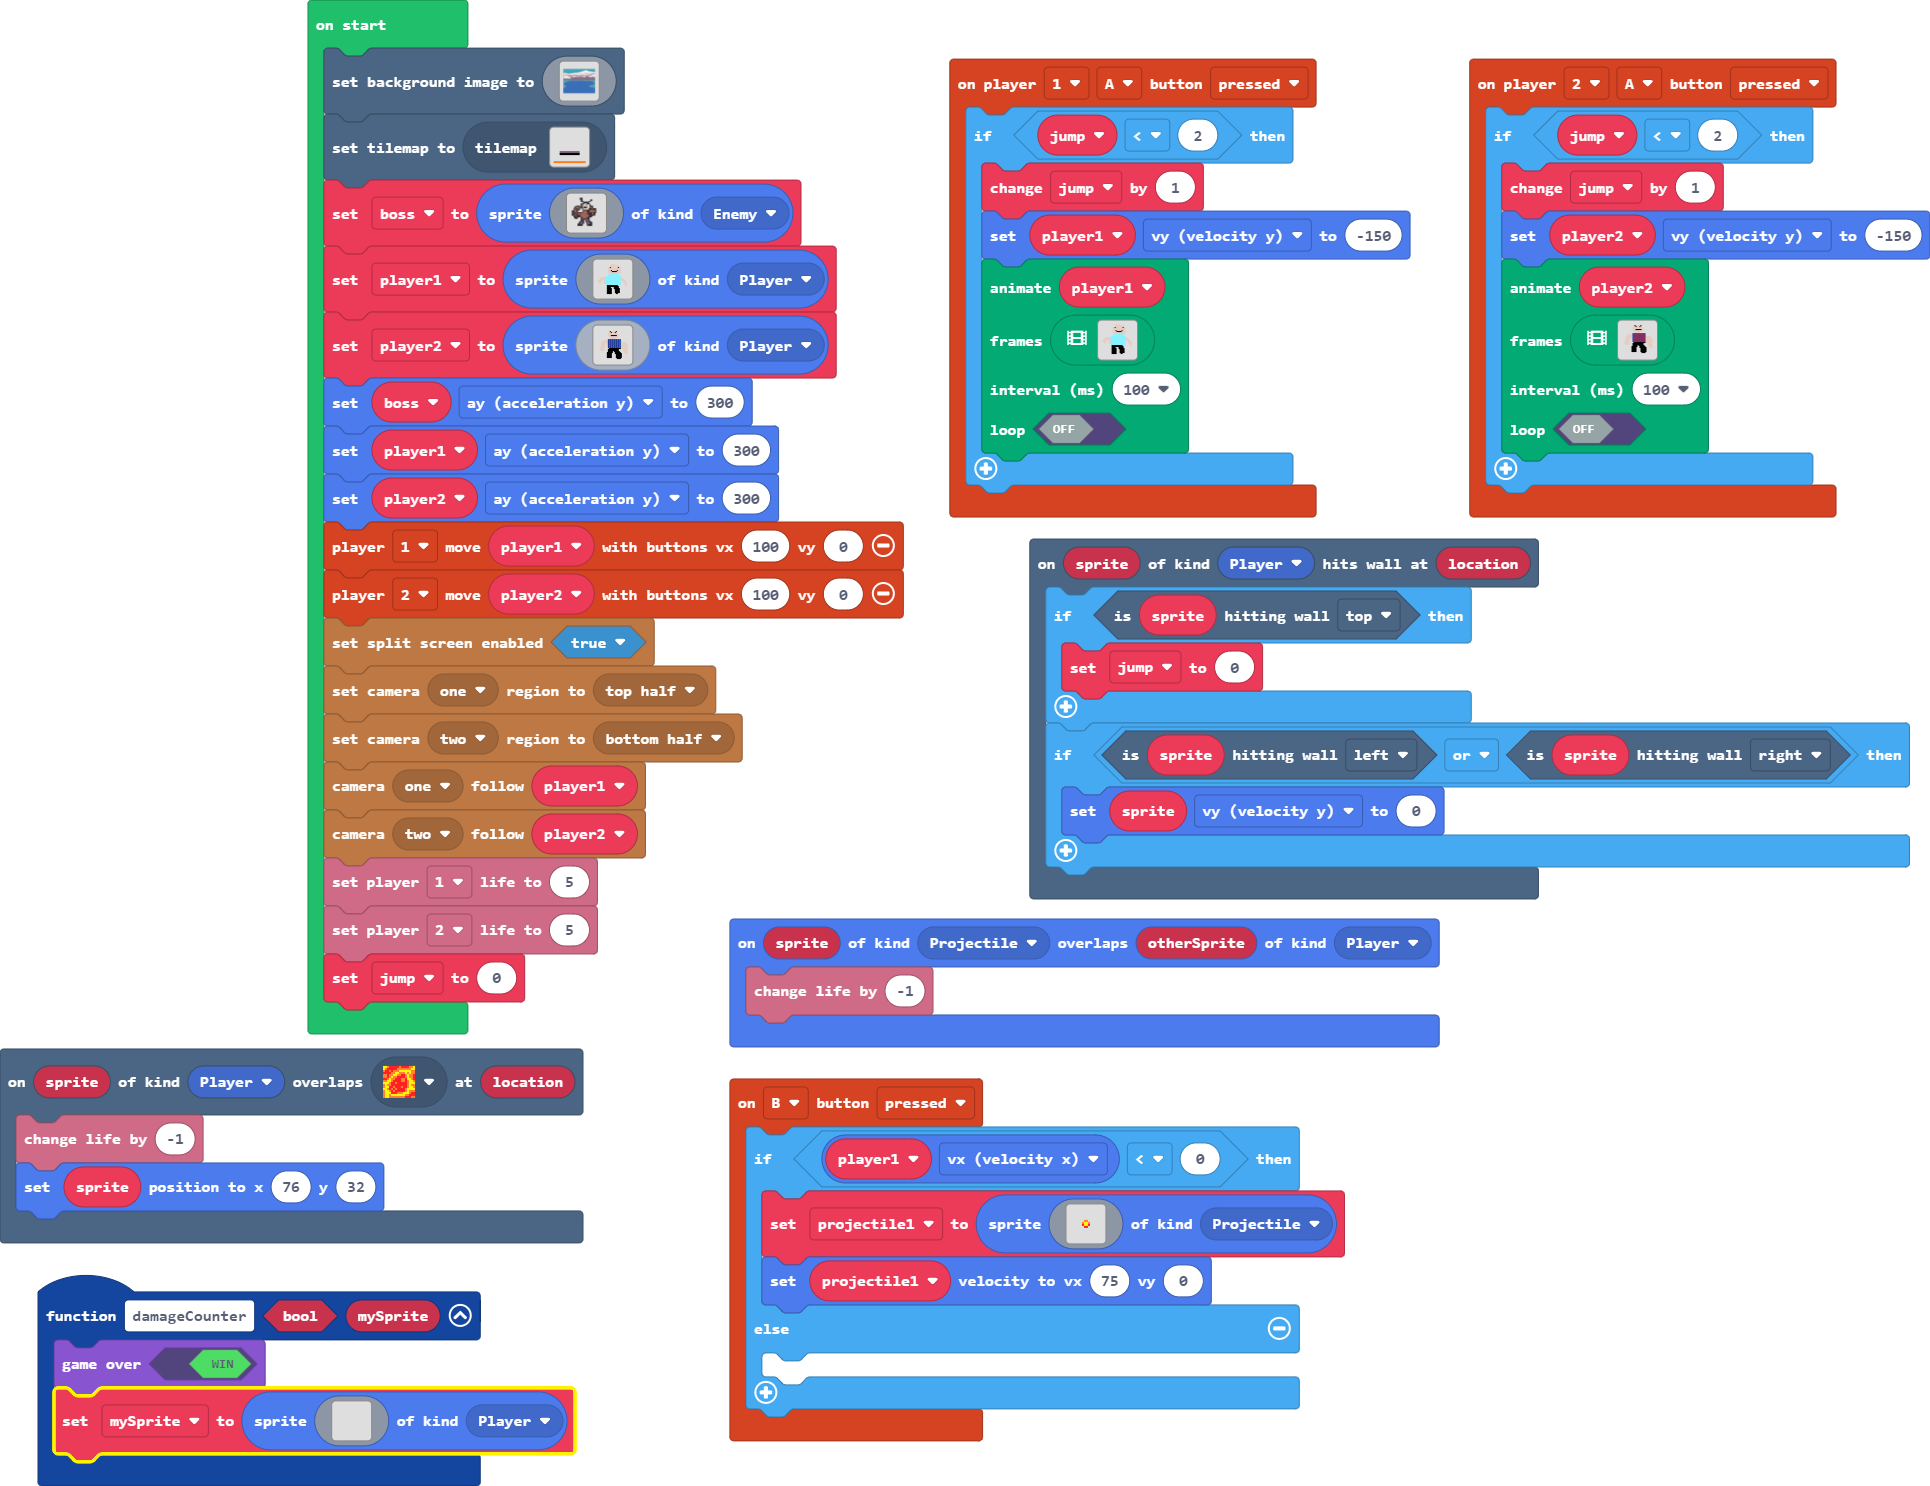
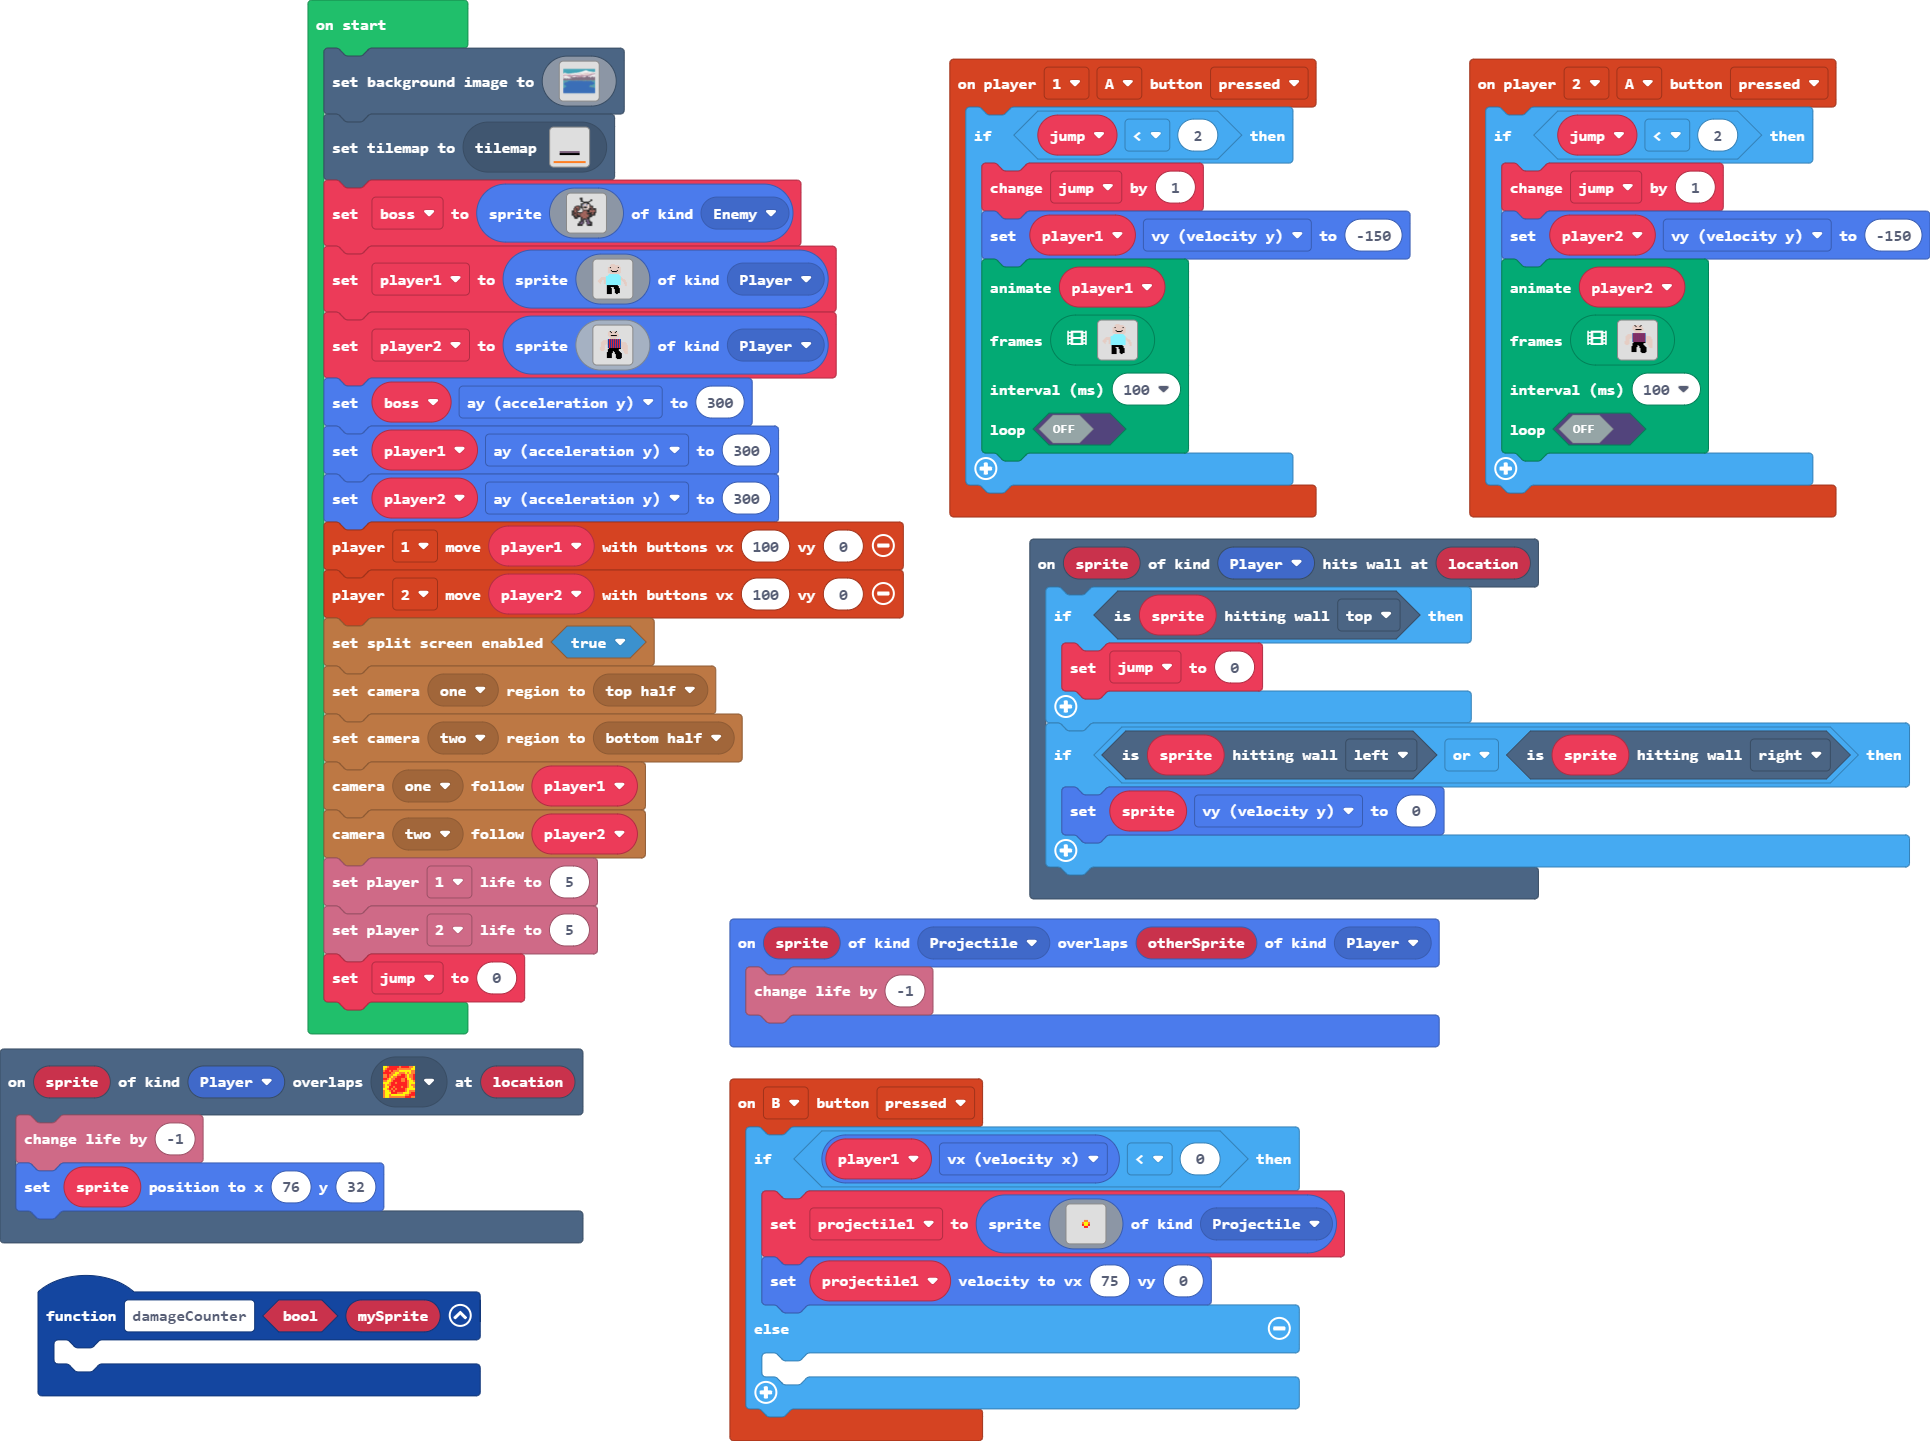
Update main.blocks, main.ts

diff --git a/main.ts b/main.ts
@@ -32,25 +32,7 @@ controller.B.onEvent(ControllerButtonEvent.Pressed, function () {
     }
 })
 function damageCounter (bool: boolean, mySprite: Sprite) {
-    game.gameOver(true)
-    mySprite = sprites.create(img`
-        . . . . . . . . . . . . . . . . 
-        . . . . . . . . . . . . . . . . 
-        . . . . . . . . . . . . . . . . 
-        . . . . . . . . . . . . . . . . 
-        . . . . . . . . . . . . . . . . 
-        . . . . . . . . . . . . . . . . 
-        . . . . . . . . . . . . . . . . 
-        . . . . . . . . . . . . . . . . 
-        . . . . . . . . . . . . . . . . 
-        . . . . . . . . . . . . . . . . 
-        . . . . . . . . . . . . . . . . 
-        . . . . . . . . . . . . . . . . 
-        . . . . . . . . . . . . . . . . 
-        . . . . . . . . . . . . . . . . 
-        . . . . . . . . . . . . . . . . 
-        . . . . . . . . . . . . . . . . 
-        `, SpriteKind.Player)
+	
 }
 scene.onOverlapTile(SpriteKind.Player, sprites.dungeon.hazardLava0, function (sprite, location) {
     info.changeLifeBy(-1)
@@ -413,7 +395,6 @@ controller.player1.onButtonEvent(ControllerButton.A, ControllerButtonEvent.Press
         )
     }
 })
-let mySprite: Sprite = null
 let projectile1: Sprite = null
 let jump = 0
 let player2: Sprite = null
